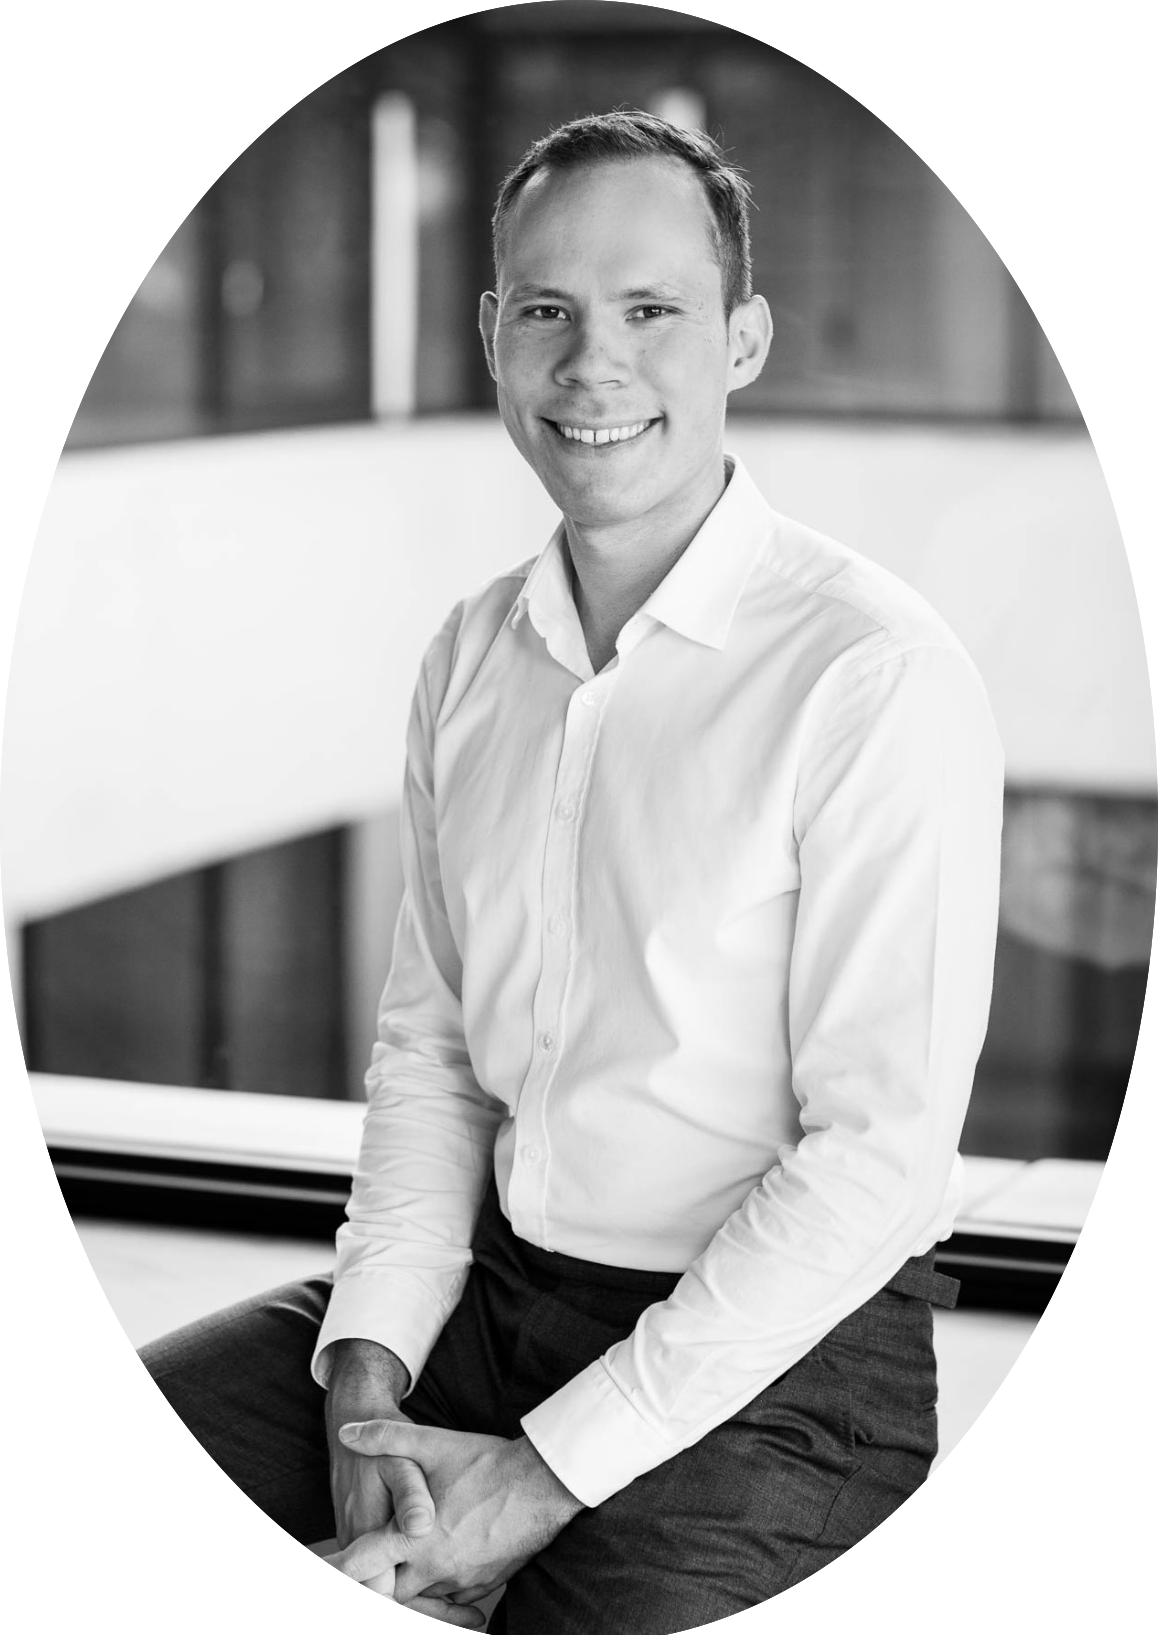
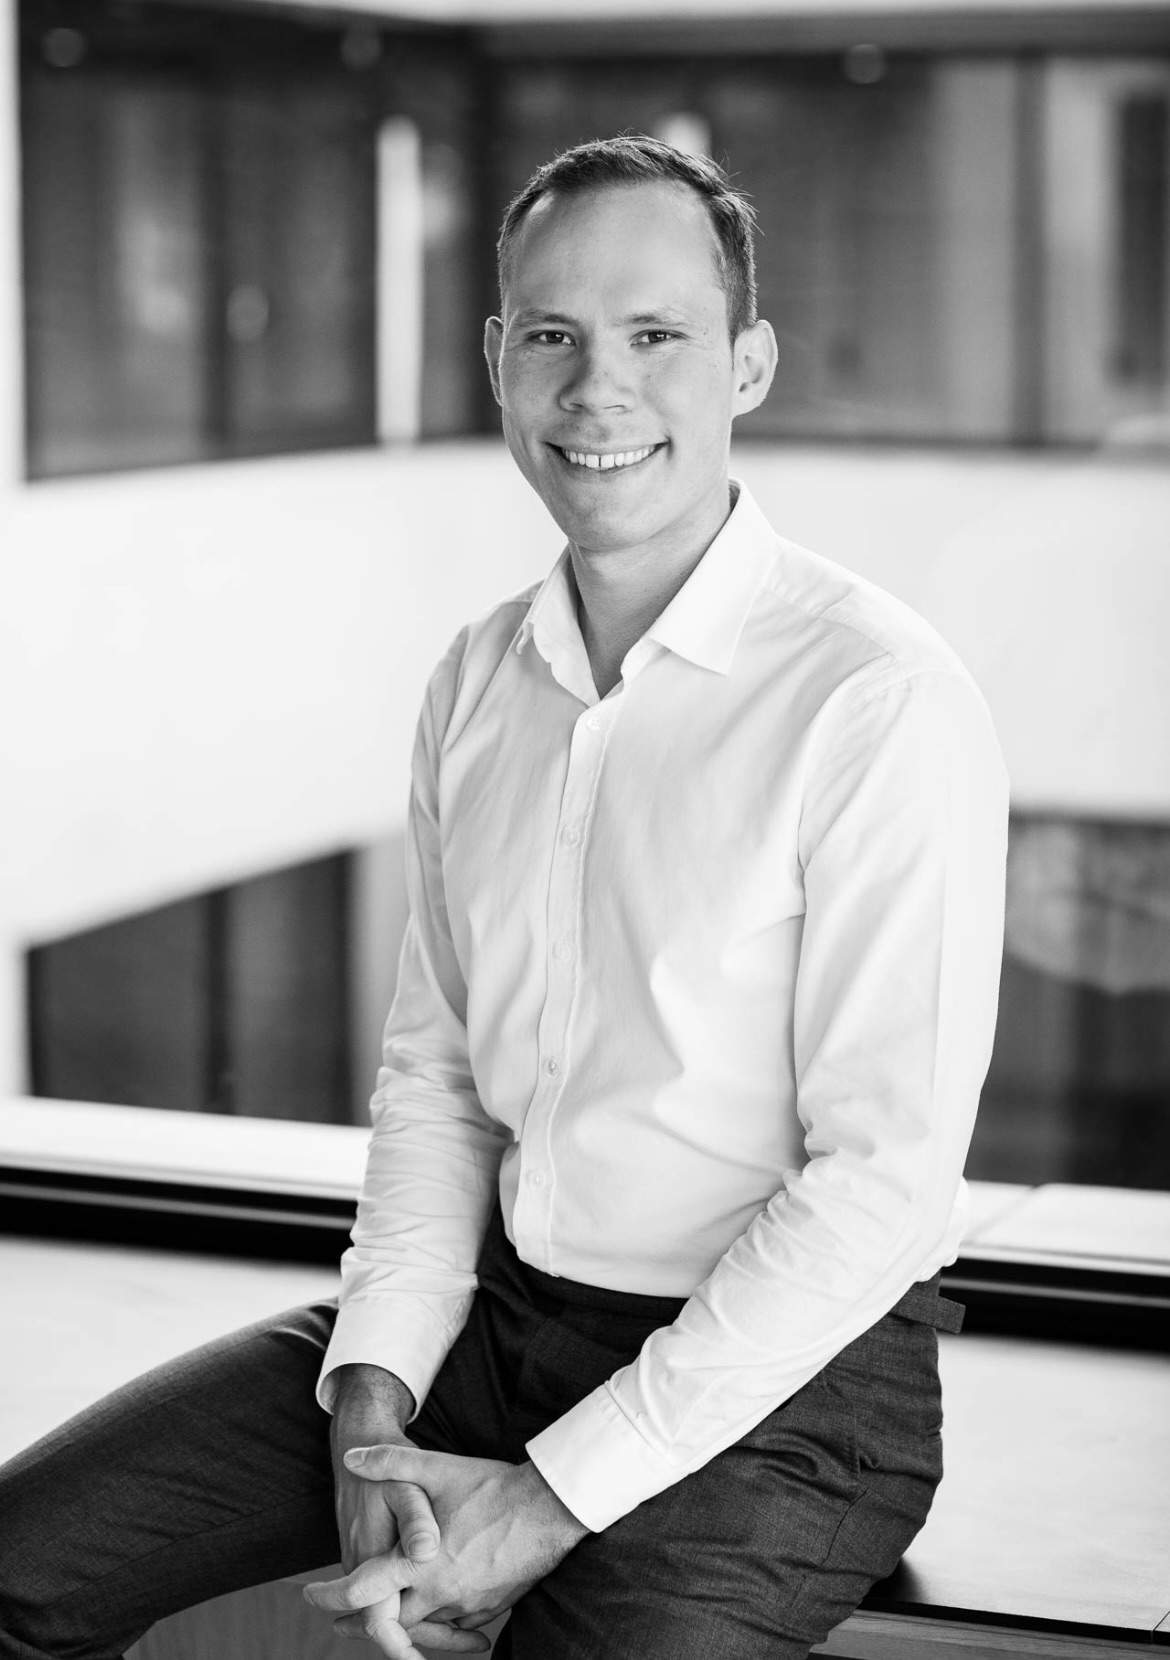
Added new pic and description

diff --git a/index.html b/index.html
@@ -37,19 +37,22 @@
     </nav>
     <section id="profile">
         <div class="section__pic-container">
-            <img src="./assets/about-pic.png" alt="Danil Savine porfile picture">
+            <img src="./assets/profile-pic.png" alt="Danil Savine porfile picture" class="profile-pic">
         </div>
         <div class="section__text">
             <p class="section__text__p1">Hello, I'm</p>
             <h1 class="title">Danil Savine</h1>
             <p class="section__text__p2">Software Engineer and Corporate Strategy Consultant @BCG</p>
+            <p class="section__text__p3">Machine Learning Engineer
+                <br>Builder of web applications
+                <br>Senior Corporate Strategy and Operations Consultant @BCG
+            </p> 
             <div class="btn-container">
                 <button class="btn btn-color-2" onclick="window.open('./assets/Danil_s_Resume.pdf')"
                 >
                 Download CV
                 </button>
-                <button class="btn btn-color-1" onclick="location.href='./#contact')"
-                >
+                <button class="btn btn-color-1" onclick="location.href='./#contact'">
                 Contact Info
                 </button>
             </div>
@@ -71,32 +74,170 @@
         <p class="section__text__p1">Get To Know More</p>
         <h1 class="title">About Me</h1>
         <div class="section-container">
-            <img 
+            <div class="section__pic-container">
+                <img 
                 src="./assets/about-pic.png" 
                 alt="Profile Picture"
                 class="about-pic">
+            </div>
+            <div class="about-details-containers">
+                <div class="about-containers">
+                    <div class="details-containers">
+                        <img src="./assets/experience.png" alt="experience icon" class="icon">
+                        <h3>Experience</h3>
+                        <p>6+ years <br>Corporate Strategy Consultant</p>
+                    </div>
+                    <div class="details-containers">
+                        <img src="./assets/education.png" alt="education icon" class="icon">
+                        <h3>Education</h3>
+                        <p>CentraleSupélec, Paris-Saclay University (BSc+MSc)
+                        <br>ESCP Europe, Master in Management</p>
+                    </div>
+                </div>
+                <div class="text-container">
+                    <p>
+                        Lorem ipsum dolor sit amet consectetur adipisicing elit. Facilis ullam optio dolorum culpa esse, inventore aliquid unde perferendis consequuntur earum, alias ut sequi reiciendis vero assumenda tenetur commodi iste. Magnam!
+                    </p>
+                </div>
+            </div>
+            <img src="./assets/arrow.png" alt="Arrow icon" class = "icon arrow"
+            onclick="location.href='./#experience'"
+            >
         </div>
-        <div class="about-details-containers">
+    </section>
+    <section id="experience">
+        <p class="section__text__p1">Explore My</p>
+        <h1 class="title">Experience</h1>
+        <div class="experience-details-container">
             <div class="about-containers">
                 <div class="details-containers">
-                    <img src="./assets/experience.png" alt="experience icon" class="icon">
+                    <h2 class="exprience-sub-title">Frontend Development</h2>
+                    <div class="article-container">
+                        <article>
+                            <img src="./assets/checkmark.png" 
+                            alt="Experience icon"
+                            class="icon">
+                            <div>
+                                <h3>HTML</h3>
+                                <p>Experienced</p>
+                            </div>
+                        </article>
+                        <article>
+                            <img src="./assets/checkmark.png" 
+                            alt="Experience icon"
+                            class="icon">
+                            <div>
+                                <h3>CSS</h3>
+                                <p>Experienced</p>
+                            </div>
+                        </article>
+                        <article>
+                            <img src="./assets/checkmark.png" 
+                            alt="Experience icon"
+                            class="icon">
+                            <div>
+                                <h3>JavaScript</h3>
+                                <p>Basic</p>
+                            </div>
+                        </article>
+                        <article>
+                            <img src="./assets/checkmark.png" 
+                            alt="Experience icon"
+                            class="icon">
+                            <div>
+                                <h3>TypeScript</h3>
+                                <p>Basic</p>
+                            </div>
+                        </article>
+                    </div>
                 </div>
-                <h3>Experience</h3>
-                <p>6+ years <br>Corporate Strategy Consultant</p>
                 <div class="details-containers">
-                    <img src="./assets/education.png" alt="education icon" class="icon">
+                    <h2 class="exprience-sub-title">Machine Learning Engineering</h2>
+                    <div class="article-container">
+                        <article>
+                            <img src="./assets/checkmark.png" 
+                            alt="Experience icon"
+                            class="icon">
+                            <div>
+                                <h3>Python</h3>
+                                <p>Experienced</p>
+                            </div>
+                        </article>
+                        <article>
+                            <img src="./assets/checkmark.png" 
+                            alt="Experience icon"
+                            class="icon">
+                            <div>
+                                <h3>Open AI API</h3>
+                                <p>Experienced</p>
+                            </div>
+                        </article>
+                        <article>
+                            <img src="./assets/checkmark.png" 
+                            alt="Experience icon"
+                            class="icon">
+                            <div>
+                                <h3>Docker</h3>
+                                <p>Basic</p>
+                            </div>
+                        </article>
+                        <article>
+                            <img src="./assets/checkmark.png" 
+                            alt="Experience icon"
+                            class="icon">
+                            <div>
+                                <h3>TypeScript</h3>
+                                <p>Basic</p>
+                            </div>
+                        </article>
+                    </div>
                 </div>
-                <h3>Education</h3>
-                <p>Grande École d'Ingénieur CentraleSupélec, Paris-Saclay University (BSc+MSc equivalent)
-                    <br>Master in Management, ESCP Europe</p>
+                <div class="details-containers">
+                    <h2 class="exprience-sub-title">Frontend Development</h2>
+                    <div class="article-container">
+                        <article>
+                            <img src="./assets/checkmark.png" 
+                            alt="Experience icon"
+                            class="icon">
+                            <div>
+                                <h3>HTML</h3>
+                                <p>Experienced</p>
+                            </div>
+                        </article>
+                        <article>
+                            <img src="./assets/checkmark.png" 
+                            alt="Experience icon"
+                            class="icon">
+                            <div>
+                                <h3>CSS</h3>
+                                <p>Experienced</p>
+                            </div>
+                        </article>
+                        <article>
+                            <img src="./assets/checkmark.png" 
+                            alt="Experience icon"
+                            class="icon">
+                            <div>
+                                <h3>JavaScript</h3>
+                                <p>Basic</p>
+                            </div>
+                        </article>
+                        <article>
+                            <img src="./assets/checkmark.png" 
+                            alt="Experience icon"
+                            class="icon">
+                            <div>
+                                <h3>TypeScript</h3>
+                                <p>Basic</p>
+                            </div>
+                        </article>
+                    </div>
+                </div>
             </div>
         </div>
-        <div class="text-container">
-            <p>
-                Lorem Ipsum
-            </p>
-        </div>
-        <img src="./assets/arrow.png" alt="">
+        <img src="./assets/arrow.png" alt="Arrow icon" class = "icon arrow"
+        onclick="location.href='./#projects'"
+        >
     </section>
     <script src="script.js"></script>
 </body>

diff --git a/style.css b/style.css
@@ -178,23 +178,35 @@ section {
     margin: auto 0;
 }
 
+.profile-pic {
+    border-radius: 10rem;
+}
+
 .section__text {
     align-self: center;
     text-align: center;
 }
 
 .section__text p {
-    font-weight: 600;
+    /* font-weight: 600; */
 }
 
 .section__text__p1 {
     text-align: center;
+    font-weight: 600;
 }
 
 .section__text__p2 {
     font-size: 1rem;
     margin-bottom: 1rem;
+    font-weight: 600;
 }
+
+.section__text__p3 {
+    font-weight: 200;
+    margin-bottom: 1rem;
+}
+
 
 .title {
     font-size: 2rem;
@@ -262,4 +274,61 @@ section {
 
 .btn-container {
     gap: 1rem;
+}
+
+/* ABOUT SECTION */
+
+#about {
+    position:relative;
+}
+
+.about-containers {
+    gap: 2rem;
+    margin-bottom: 2rem;
+    margin-top: 2rem;
+}
+
+.about-details-containers {
+    justify-content: center;
+    flex-direction: column;
+}   
+
+.about-containers, .about-details-containers {
+    display: flex;
+}
+
+.about-pic {
+    border-radius: 2rem;
+}
+
+.arrow {
+    position: absolute;
+    right: -5rem;
+    bottom: 2.5rem;
+}
+
+.details-containers {
+    padding: 1.5rem;
+    flex: 1;
+    background: rgb(255, 255, 255);
+    border-radius: 2rem;
+    border: rgb(53, 53, 53) 0.1rem solid;
+    border-color: rgb(163, 163, 163);
+    text-align: center;
+}
+
+.section-container {
+    gap: 4rem;
+    height: 55%;
+}
+
+.section__pic-container {
+    height: 400px;
+    width: 400px;
+    margin: auto 0;
+}
+
+/* EXPERIENCE */
+#experience {
+    position: relative;
 }
